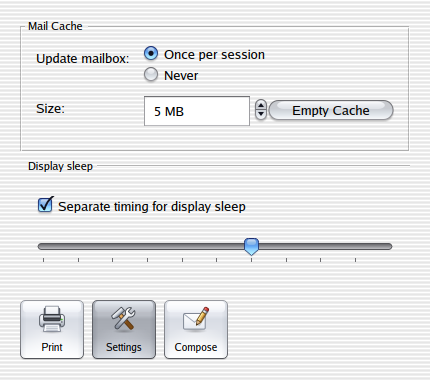
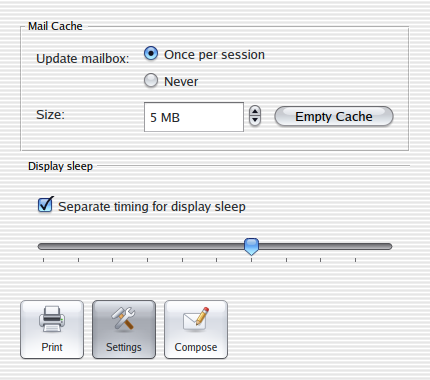
Style: HIG spacing between controls in nested layouts
Our horizontal and vertical layout spacing differ (12 and 8 px), so nested layouts fall back to
QStyle::layoutSpacing, which this style didn't implement: controls in a row ended up about 2 px
apart (a spin box's arrows touching the next button). layoutSpacing now returns the HIG values:
12 px between controls, 8 px after a label, 8 px vertically and 6 px between stacked check boxes
and radio buttons. Gallery screenshots refreshed.

diff --git a/style/pinstripestyle.cpp b/style/pinstripestyle.cpp
@@ -2149,6 +2149,23 @@ QRect Style::subElementRect(SubElement se, const QStyleOption *opt, const QWidge
     return QProxyStyle::subElementRect(se, opt, w);
 }
 
+// HIG chapter 8 spacing. Nested layouts (and any layout whose horizontal and vertical spacing
+// differ, like ours) ask for this per pair of controls instead of PM_Layout*Spacing.
+int Style::layoutSpacing(QSizePolicy::ControlType c1, QSizePolicy::ControlType c2, Qt::Orientation o, const QStyleOption *, const QWidget *) const
+{
+    if (o == Qt::Horizontal) {
+        // a label sits 8 px from its control; controls sit 12 px apart
+        if (c1 == QSizePolicy::Label || c2 == QSizePolicy::Label)
+            return 8;
+        return 12;
+    }
+    // stacked check boxes and radio buttons sit closer than other controls
+    const auto toggle = QSizePolicy::CheckBox | QSizePolicy::RadioButton;
+    if ((c1 & toggle) && (c2 & toggle))
+        return 6;
+    return 8;
+}
+
 int Style::pixelMetric(PixelMetric pm, const QStyleOption *opt, const QWidget *w) const
 {
     switch (pm) {

diff --git a/style/pinstripestyle.h b/style/pinstripestyle.h
@@ -32,6 +32,8 @@ public:
     QRect subControlRect(ComplexControl cc, const QStyleOptionComplex *opt, SubControl sc, const QWidget *w = nullptr) const override;
     QRect subElementRect(SubElement se, const QStyleOption *opt, const QWidget *w = nullptr) const override;
     int pixelMetric(PixelMetric pm, const QStyleOption *opt = nullptr, const QWidget *w = nullptr) const override;
+    int layoutSpacing(QSizePolicy::ControlType c1, QSizePolicy::ControlType c2, Qt::Orientation o,
+                      const QStyleOption *opt = nullptr, const QWidget *w = nullptr) const override;
     QSize sizeFromContents(ContentsType ct, const QStyleOption *opt, const QSize &size, const QWidget *w = nullptr) const override;
     QIcon standardIcon(StandardPixmap sp, const QStyleOption *opt = nullptr, const QWidget *w = nullptr) const override;
     int styleHint(StyleHint sh, const QStyleOption *opt = nullptr, const QWidget *w = nullptr, QStyleHintReturn *ret = nullptr) const override;
